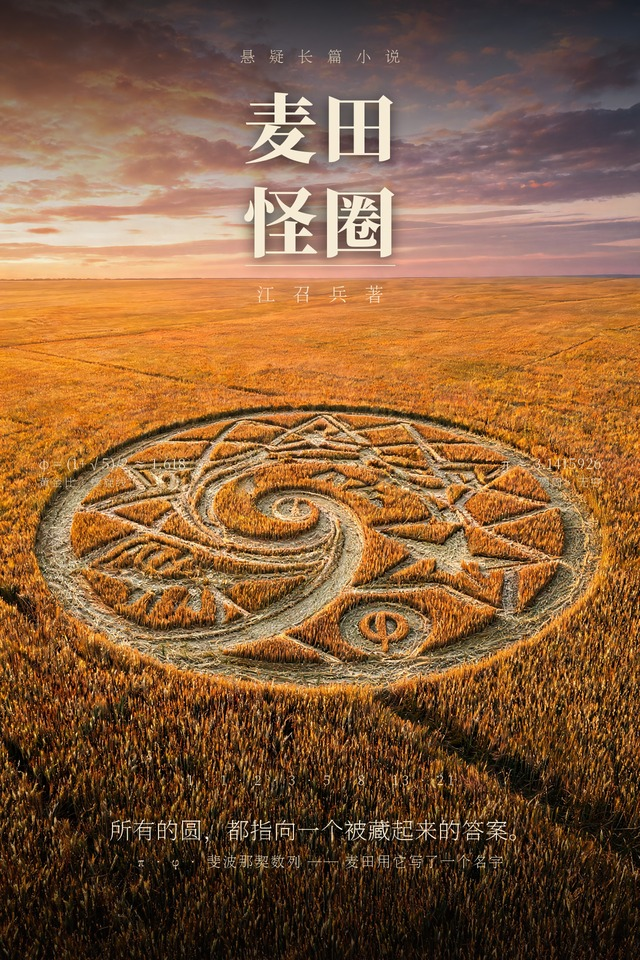
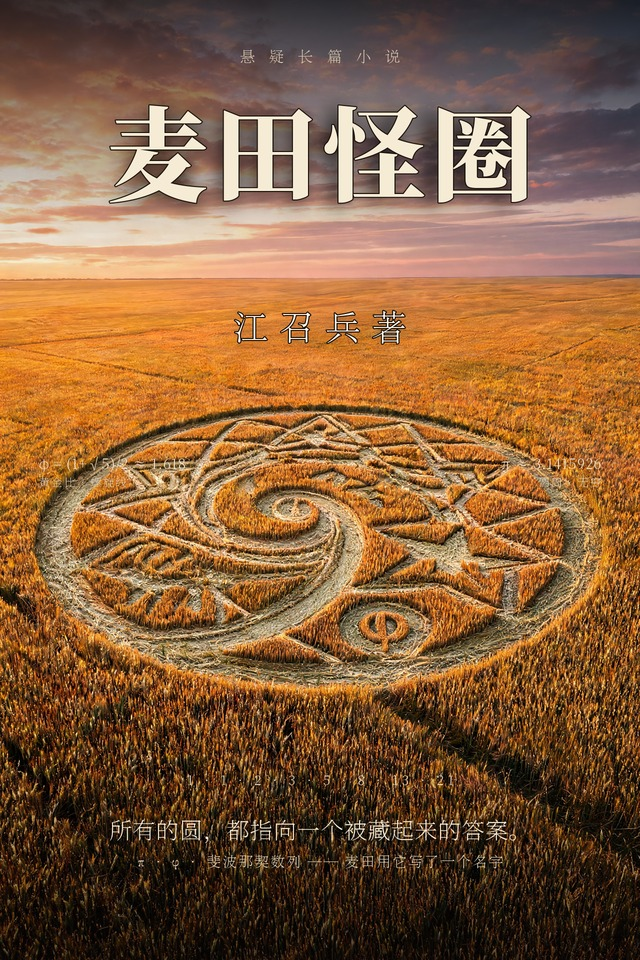
Cover: single-line title, larger author with stronger contrast

Changed region(s): [[0.1562, 0.0938, 0.8438, 0.375]]

diff --git a/books/maitian-guiquan/index.html b/books/maitian-guiquan/index.html
@@ -17,7 +17,7 @@
 <meta property="og:url" content="https://ZhaobingJiang.github.io/books/maitian-guiquan/">
 <meta property="og:title" content="麦田怪圈 · 悬疑长篇小说">
 <meta property="og:description" content="十二年后，麦田里长出一张脸。三卷四十章，约十七万字。">
-<meta property="og:image" content="https://ZhaobingJiang.github.io/books/maitian-guiquan/cover.jpg?v=2">
+<meta property="og:image" content="https://ZhaobingJiang.github.io/books/maitian-guiquan/cover.jpg?v=3">
 <meta name="twitter:card" content="summary_large_image">
 <script type="application/ld+json">
 {"@context":"https://schema.org","@graph":[
@@ -77,7 +77,7 @@
 
 <main class="reader">
   <div class="book-head">
-    <img class="web-cover" src="cover.jpg?v=2" alt="《麦田怪圈》封面：江召兵著，悬疑长篇小说" width="640" height="960">
+    <img class="web-cover" src="cover.jpg?v=3" alt="《麦田怪圈》封面：江召兵著，悬疑长篇小说" width="640" height="960">
     <h1 class="t">麦 田 怪 圈</h1>
     <div class="s">十二年后，麦田里长出一张脸</div>
     <div class="a">江召兵　著</div>

diff --git a/books/index.html b/books/index.html
@@ -560,7 +560,7 @@
 
         <article class="book-card" id="book-14">
           <figure class="book-figure">
-            <img src="./maitian-guiquan/cover.jpg?v=1" alt="Cover of Crop Circle (Maitian Guiquan)" width="640" height="960">
+            <img src="./maitian-guiquan/cover.jpg?v=3" alt="Cover of Crop Circle (Maitian Guiquan)" width="640" height="960">
             <figcaption>2026 &middot; Three volumes, forty chapters</figcaption>
           </figure>
           <div class="book-body">

diff --git a/zh/books.html b/zh/books.html
@@ -560,7 +560,7 @@
 
         <article class="book-card" id="book-14">
           <figure class="book-figure">
-            <img src="../books/maitian-guiquan/cover.jpg?v=1" alt="《麦田怪圈》封面" width="640" height="960">
+            <img src="../books/maitian-guiquan/cover.jpg?v=3" alt="《麦田怪圈》封面" width="640" height="960">
             <figcaption>2026 · 三卷四十章</figcaption>
           </figure>
           <div class="book-body">

diff --git a/scripts/compose_maitian_cover_math.py b/scripts/compose_maitian_cover_math.py
@@ -19,14 +19,16 @@ def font(path, size):
     return ImageFont.truetype(path, size)
 
 
-def tracked_text(draw, xy, text, fnt, fill, tracking=0, center_x=None):
+def tracked_text(draw, xy, text, fnt, fill, tracking=0, center_x=None,
+                 stroke_width=0, stroke_fill=None):
     widths = [draw.textlength(ch, font=fnt) for ch in text]
     total = sum(widths) + tracking * (len(text) - 1)
     x, y = xy
     if center_x is not None:
         x = center_x - total / 2
     for ch, w in zip(text, widths):
-        draw.text((x, y), ch, font=fnt, fill=fill)
+        draw.text((x, y), ch, font=fnt, fill=fill,
+                  stroke_width=stroke_width, stroke_fill=stroke_fill)
         x += w + tracking
     return total
 
@@ -78,22 +80,27 @@ def main():
     f_label = font(SONG, 30)
     tracked_text(d, (0, 92), "悬 疑 长 篇 小 说", f_label, muted, tracking=10, center_x=W / 2)
 
-    # ---- title ----
-    f_title = font(SERIF_HEAVY, 150)
-    y = 140
-    for line in ["麦田", "怪圈"]:
-        tw = sum(d.textlength(ch, font=f_title) for ch in line) + 8 * (len(line) - 1)
-        tx = (W - tw) / 2
-        base = Image.alpha_composite(base, shadow((W, H), lambda dd, tx=tx, y=y, line=line: dd.text((tx + 4, y + 6), line, font=f_title, fill=(0, 0, 0, 255)), blur=16, alpha=220))
-        d = ImageDraw.Draw(base)
-        tracked_text(d, (0, y), line, f_title, ivory, tracking=8, center_x=W / 2)
-        y += 188
+    # ---- title（四字单行）----
+    f_title = font(SERIF_HEAVY, 205)
+    title = "麦田怪圈"
+    title_tracking = 12
+    tw = sum(d.textlength(ch, font=f_title) for ch in title) + title_tracking * (len(title) - 1)
+    tx = (W - tw) / 2
+    ty = 150
+    base = Image.alpha_composite(base, shadow((W, H), lambda dd, tx=tx, ty=ty: dd.text((tx + 5, ty + 7), title, font=f_title, fill=(0, 0, 0, 255)), blur=20, alpha=235))
+    d = ImageDraw.Draw(base)
+    tracked_text(d, (0, ty), title, f_title, ivory, tracking=title_tracking, center_x=W / 2,
+                 stroke_width=2, stroke_fill=(26, 16, 10, 255))
 
-    d.line([(W / 2 - 150, y + 14), (W / 2 + 150, y + 14)], fill=(238, 224, 198, 210), width=2)
-
-    # ---- author ----
-    f_author = font(SONG, 38)
-    tracked_text(d, (0, y + 46), "江 召 兵 著", f_author, ivory, tracking=12, center_x=W / 2)
+    # ---- author（加大、下移、加描边与暗影提高对比）----
+    f_author = font(SONG, 70)
+    ay = 606
+    author = "江 召 兵 著"
+    aw = sum(d.textlength(ch, font=f_author) for ch in author)
+    base = Image.alpha_composite(base, shadow((W, H), lambda dd: dd.text(((W - aw) / 2 + 4, ay + 6), author, font=f_author, fill=(0, 0, 0, 255)), blur=26, alpha=245))
+    d = ImageDraw.Draw(base)
+    tracked_text(d, (0, ay), author, f_author, (253, 248, 236, 255), tracking=2, center_x=W / 2,
+                 stroke_width=2, stroke_fill=(22, 12, 7, 255))
 
     # ---- math annotations ----
     f_math = font(SERIF, 28)
